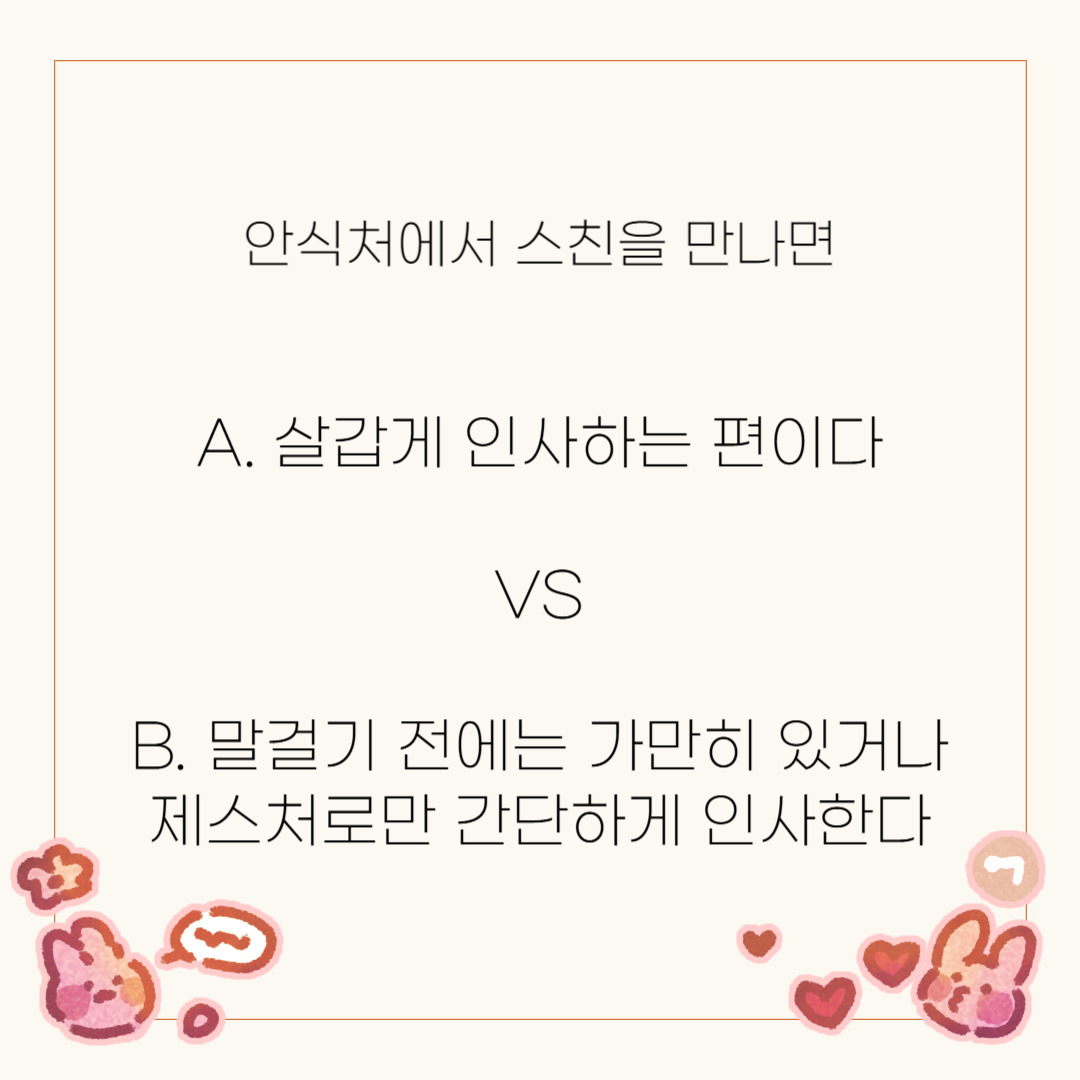
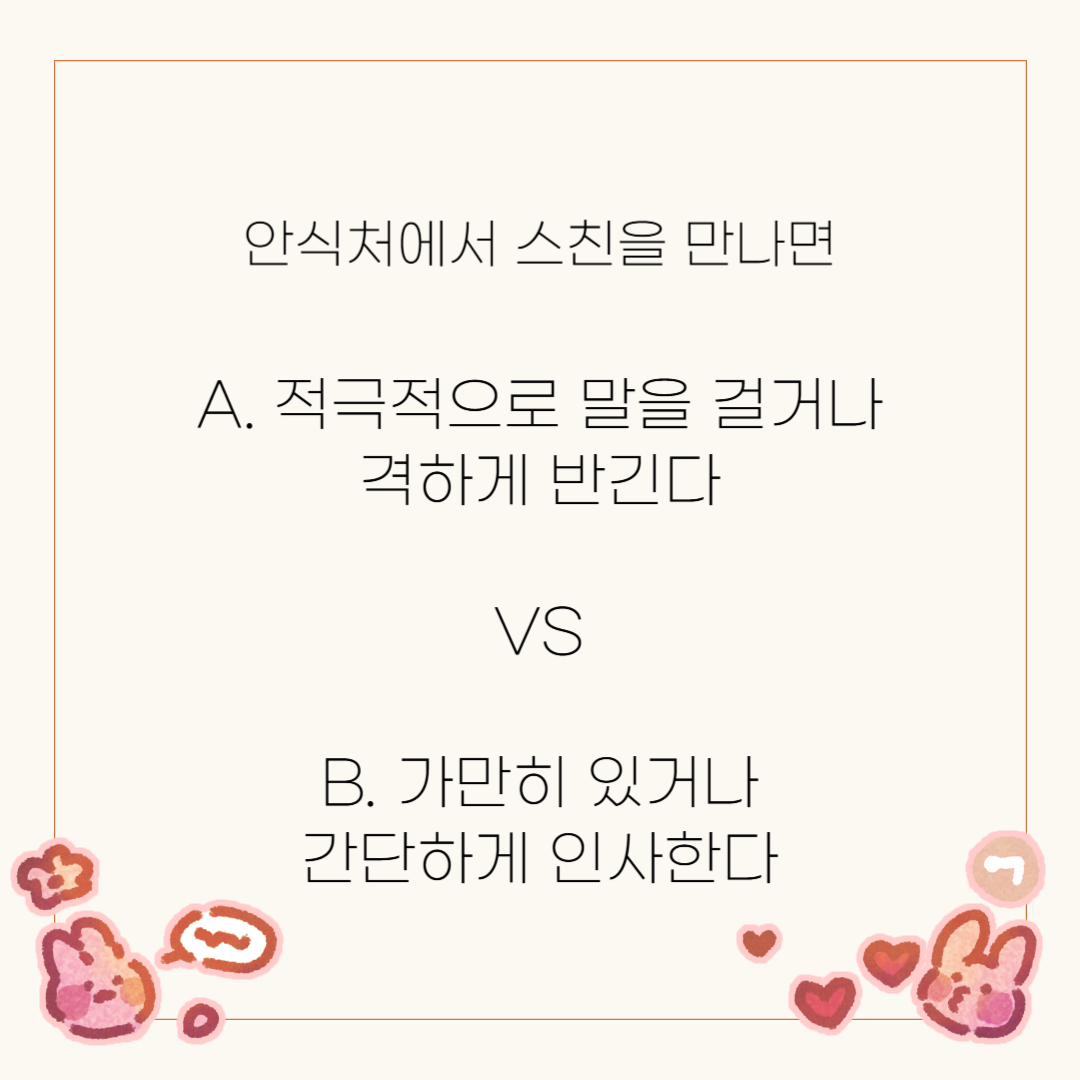
새 기능 개시!!!

Changed region(s): [[0.1222, 0.6417, 0.8861, 0.825], [0.1833, 0.3361, 0.825, 0.4583], [0.4583, 0.5194, 0.55, 0.6111]]

diff --git a/src/app/sky/mbti/result/page.js b/src/app/sky/mbti/result/page.js
@@ -38,8 +38,12 @@ export default function ResultPage() {
     document.body.removeChild(link)
   }
 
-  const handleRetake = () => {
-    router.push('/sky/mbti')
+  const handleShare = async () => {
+    try {
+      await navigator.clipboard.writeText("https://korea-sky-planner.com/sky/mbti")
+    } catch (err) {
+      console.error("링크 복사 실패:", err)
+    }
   }
 
   const handleViewOther = () => {
@@ -59,16 +63,13 @@ export default function ResultPage() {
         />
       </div>
       <div className={styles.buttonRow}>
-        <button className={`${styles.button} ${styles.downloadLink}`} onClick={handleDownloadHead}>
-          대표 이미지 다운로드
-        </button>
         <button className={`${styles.button} ${styles.downloadLink}`} onClick={handleDownloadFull}>
           결과 다운로드
         </button>
       </div>
       <div className={`${styles.buttonRow} ${styles.secondaryRow}`}>
-        <button className={styles.secondaryButton} onClick={handleRetake}>
-          다시 검사하기
+        <button className={styles.secondaryButton} onClick={handleShare}>
+          공유하기
         </button>
         <button className={styles.secondaryButton} onClick={handleViewOther}>
           다른 유형 보러가기

diff --git a/src/app/sky/utils/questions.js b/src/app/sky/utils/questions.js
@@ -12,6 +12,6 @@ export const questions = [
   { id:11, dimension:'EI', text:'11', options:['A. 내가 합류하는 편이다.','B. 상대가 합류해주길 기다린다.'] },
   { id:12, dimension:'TF', text:'12', options:['A. 빛만 주고 받는 빛지니스','B. 간간히 대화도 하는 교류가 있는 스친.'] },
   { id:13, dimension:'JP', text:'13', options:['A. 꼭 수집하는 편이다.','B. 아이템 몇 개 정도는 놓쳐도 괜찮다.'] },
-  { id:14, dimension:'EI', text:'14', options:['A. 살갑게 인사하는 편이다.','B. 말걸기 전에는 가만히 있거나 제스처로만 간단하게 인사한다.'] },
+  { id:14, dimension:'EI', text:'14', options:['A. 적극적으로 말을 걸거나 격하게 반긴다.','B. 가만히 있거나 간단하게 인사한다.'] },
   { id:15, dimension:'JP', text:'15', options:['A. 물약이 충분할 때만 키도박을 시도한다.','B. 물약이 세개만 있어도 시도해본다.'] },
 ]

diff --git a/src/app/layout.js b/src/app/layout.js
@@ -72,9 +72,9 @@ export default function RootLayout({ children }) {
                 <Link href="/sky/travelingSprits/generalVisits/list">
                   <button className="nav-button">유랑 대백과</button>
                 </Link>
-                {/* <Link href="/sky/mbti">
+                <Link href="/sky/mbti">
                   <button className="nav-button">성향 테스트</button>
-                </Link> */}
+                </Link>
                 <Link href="/sky/candlecalculator">
                   <button className="nav-button">양초 계산하기</button>
                 </Link>

diff --git a/src/app/page.js b/src/app/page.js
@@ -41,7 +41,7 @@ export default function MainPage() {
           />
           <h2 className="option-title">키 재기</h2>
         </div>
-        {/* <div
+        <div
           className="option-container"
           onClick={() => navigateTo("/sky/mbti")}
         >
@@ -51,7 +51,7 @@ export default function MainPage() {
             className="option-image"
           />
           <h2 className="option-title">성향 테스트</h2>
-        </div> */}
+        </div>
         <div
           className="option-container"
           onClick={() => navigateTo("/sky/candlecalculator")}

diff --git a/src/app/sky/mbti/gallery/page.js b/src/app/sky/mbti/gallery/page.js
@@ -43,7 +43,7 @@ export default function GalleryPage() {
           공유하기
         </button>
         <button className={styles.homeButton} onClick={handleGoHome}>
-          돌아가기
+          홈으로
         </button>
       </div>
       {copySuccess && <span className={styles.copyMessage}>{copySuccess}</span>}
